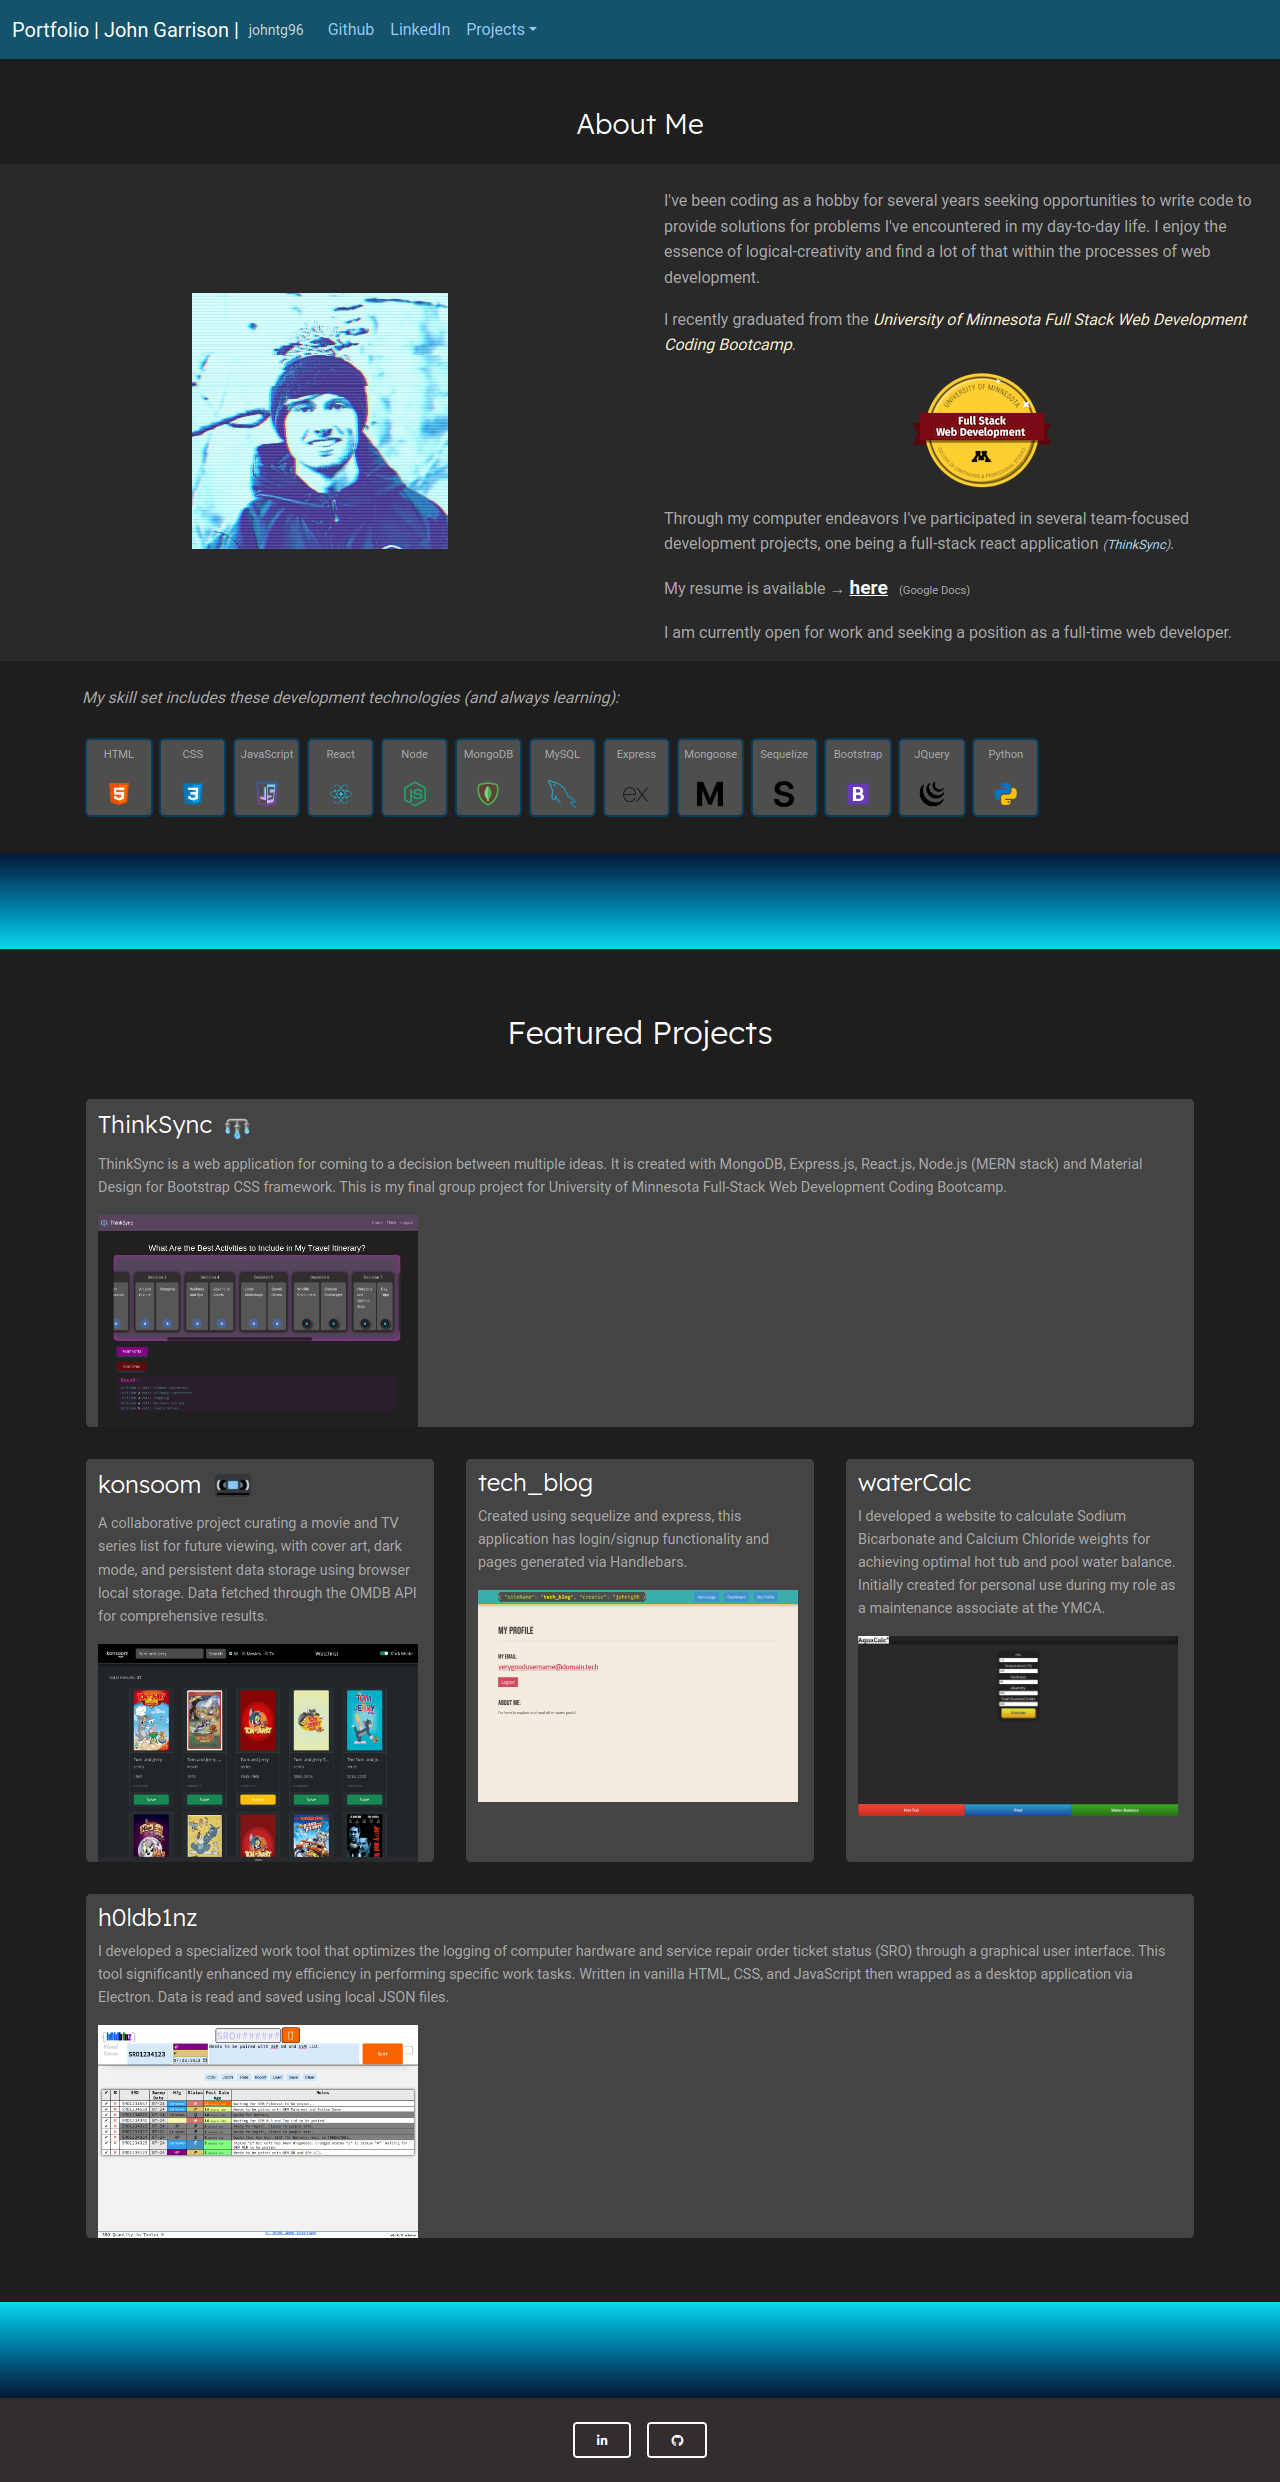
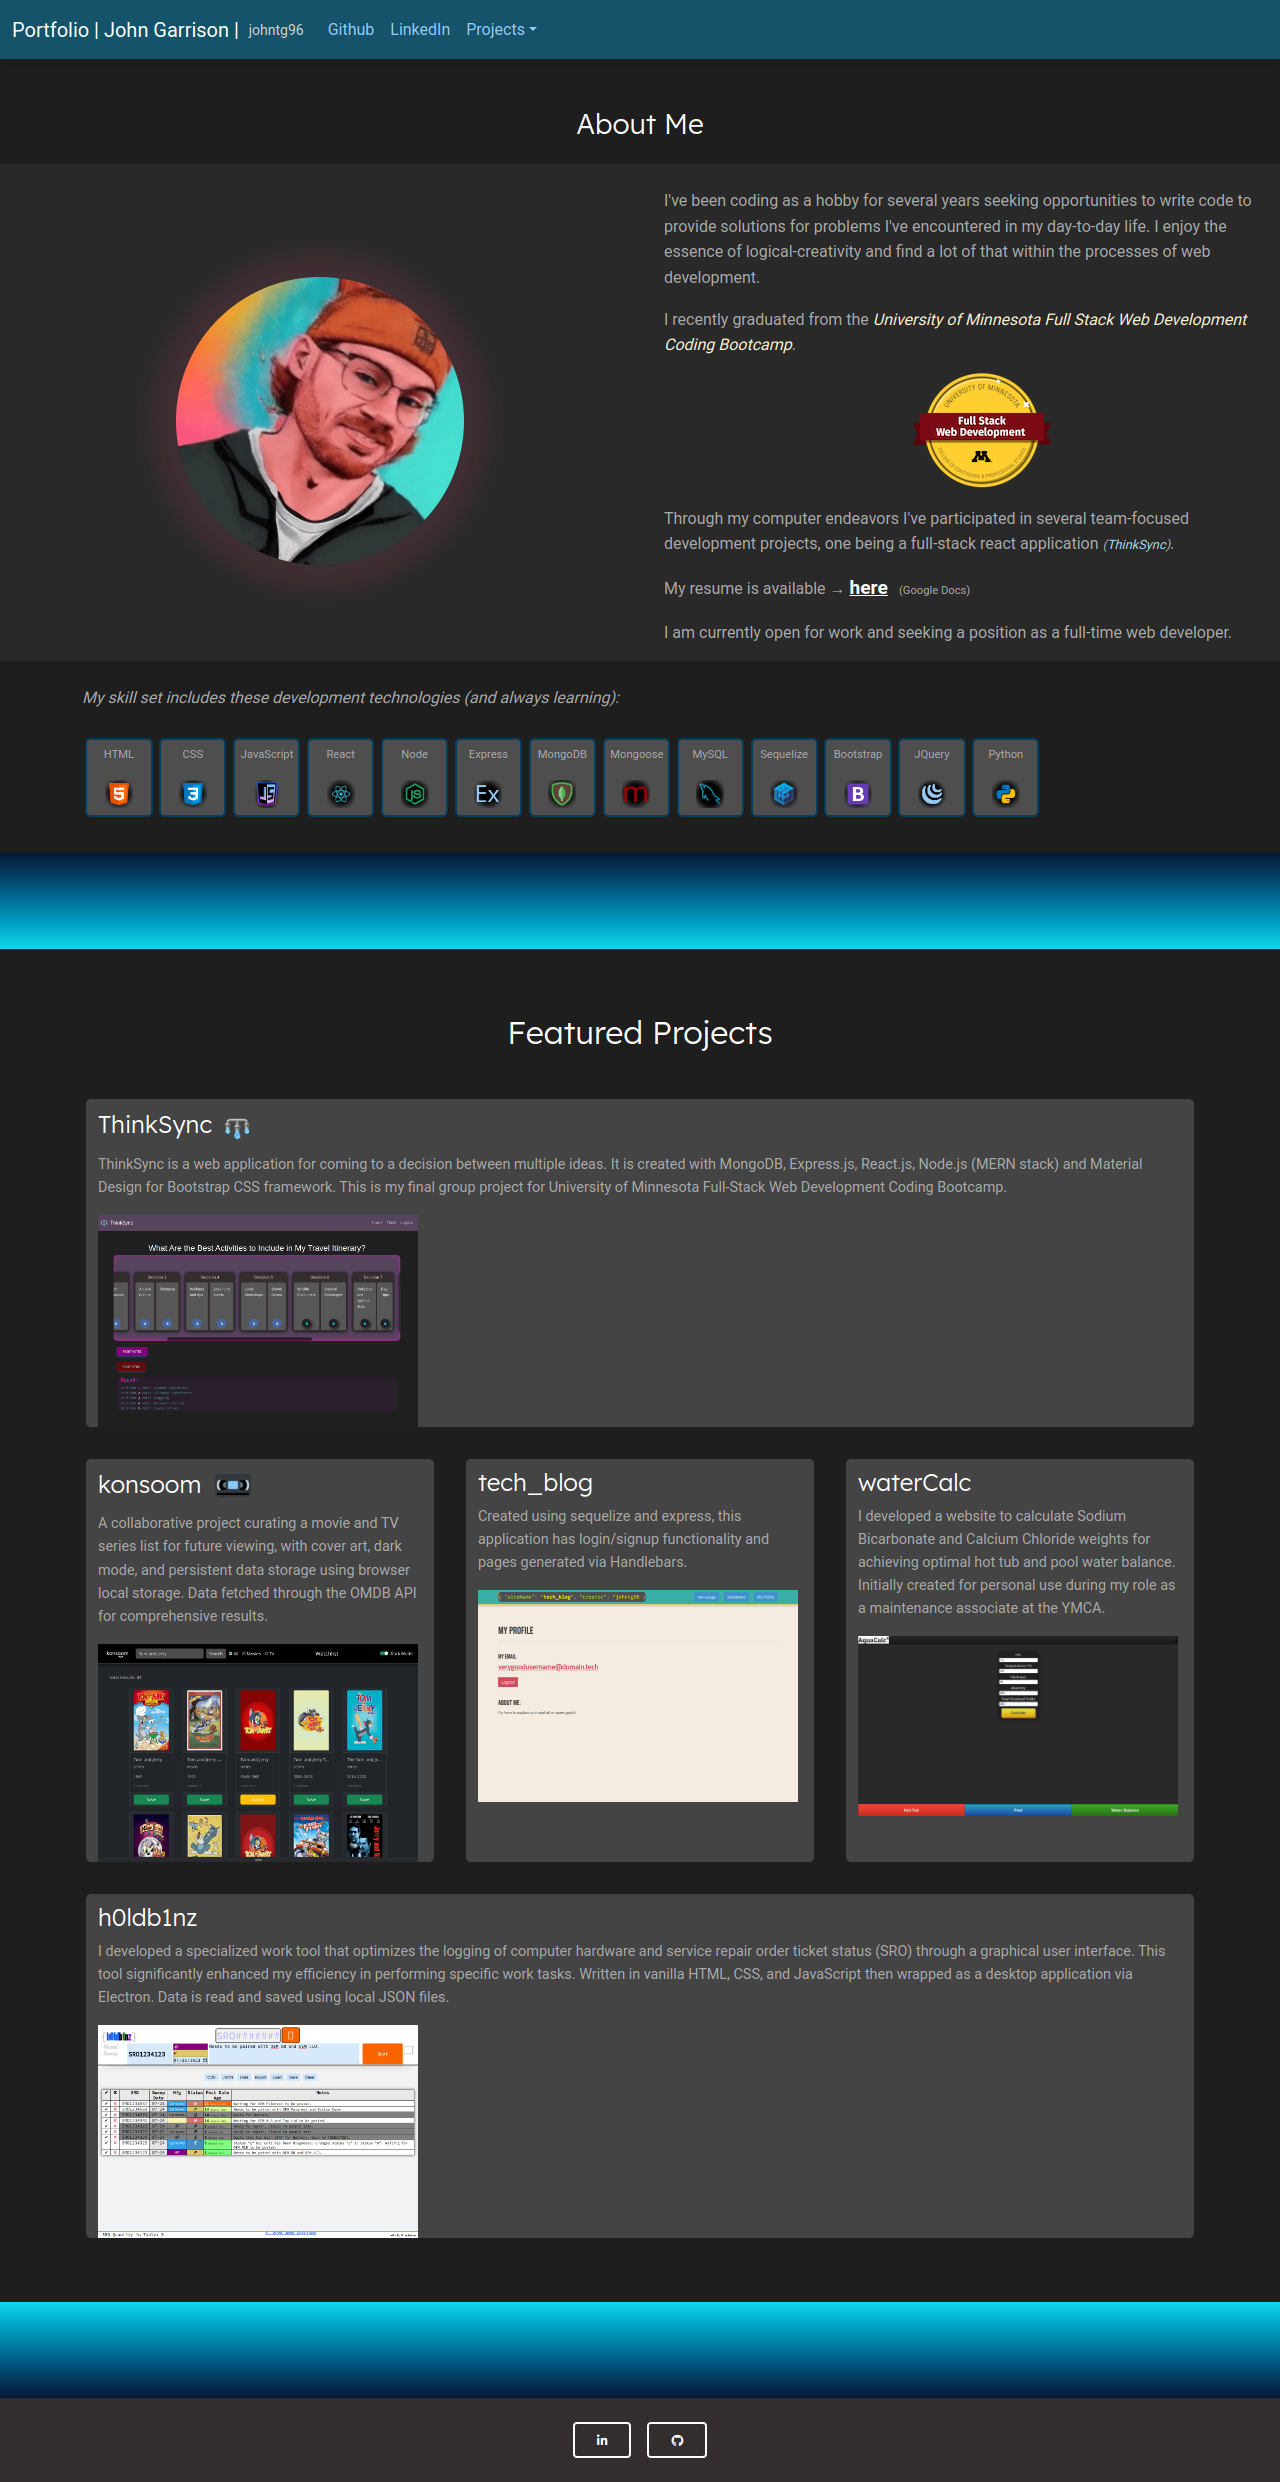
updated screenshot and resume description, added links with link to my LinkedIn

diff --git a/README.md b/README.md
@@ -1,10 +1,15 @@
-# React.js Portfolio
-
-## Description
-
-This is my web development portfolio website that was written in React.
-On it you will find summaries of my work and more information about me as a developer, including my current skillset, and links to resume and University of Minnesota Coding Bootcamp Web Dev Certification.
-
-View the live site [here](https://johntg96.netlify.app/).
-
-![website screenshot](./public/images/screenshot_react_portfolio.png)
+# React.js Portfolio  
+  
+## Description  
+  
+This is my web development portfolio website (developed with React.js library).
+On it you will find summaries of my web development projects and more information about me as a developer.  
+  
+## Links  
+  
+* View the live site [here](https://johntg96.netlify.app/).  
+  
+* Find me on [LinkedIn](https://www.linkedin.com/in/johntg96/).  
+  
+  
+![website screenshot](./public/images/screenshot_react_portfolio.png)  
